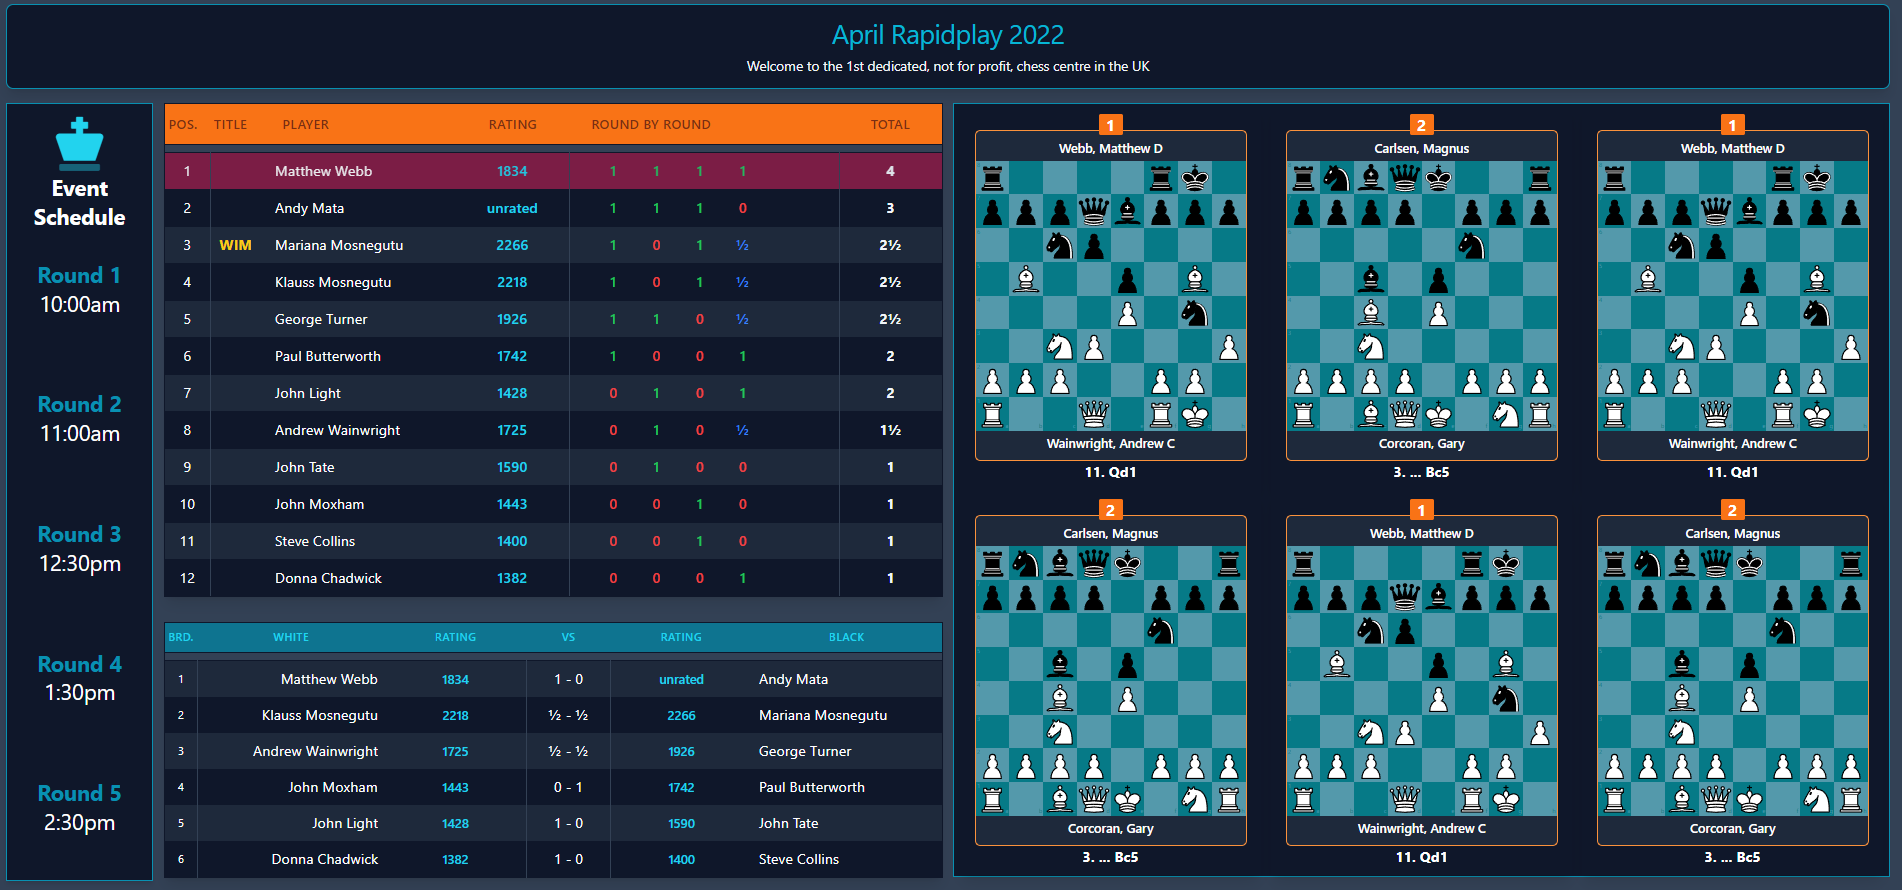
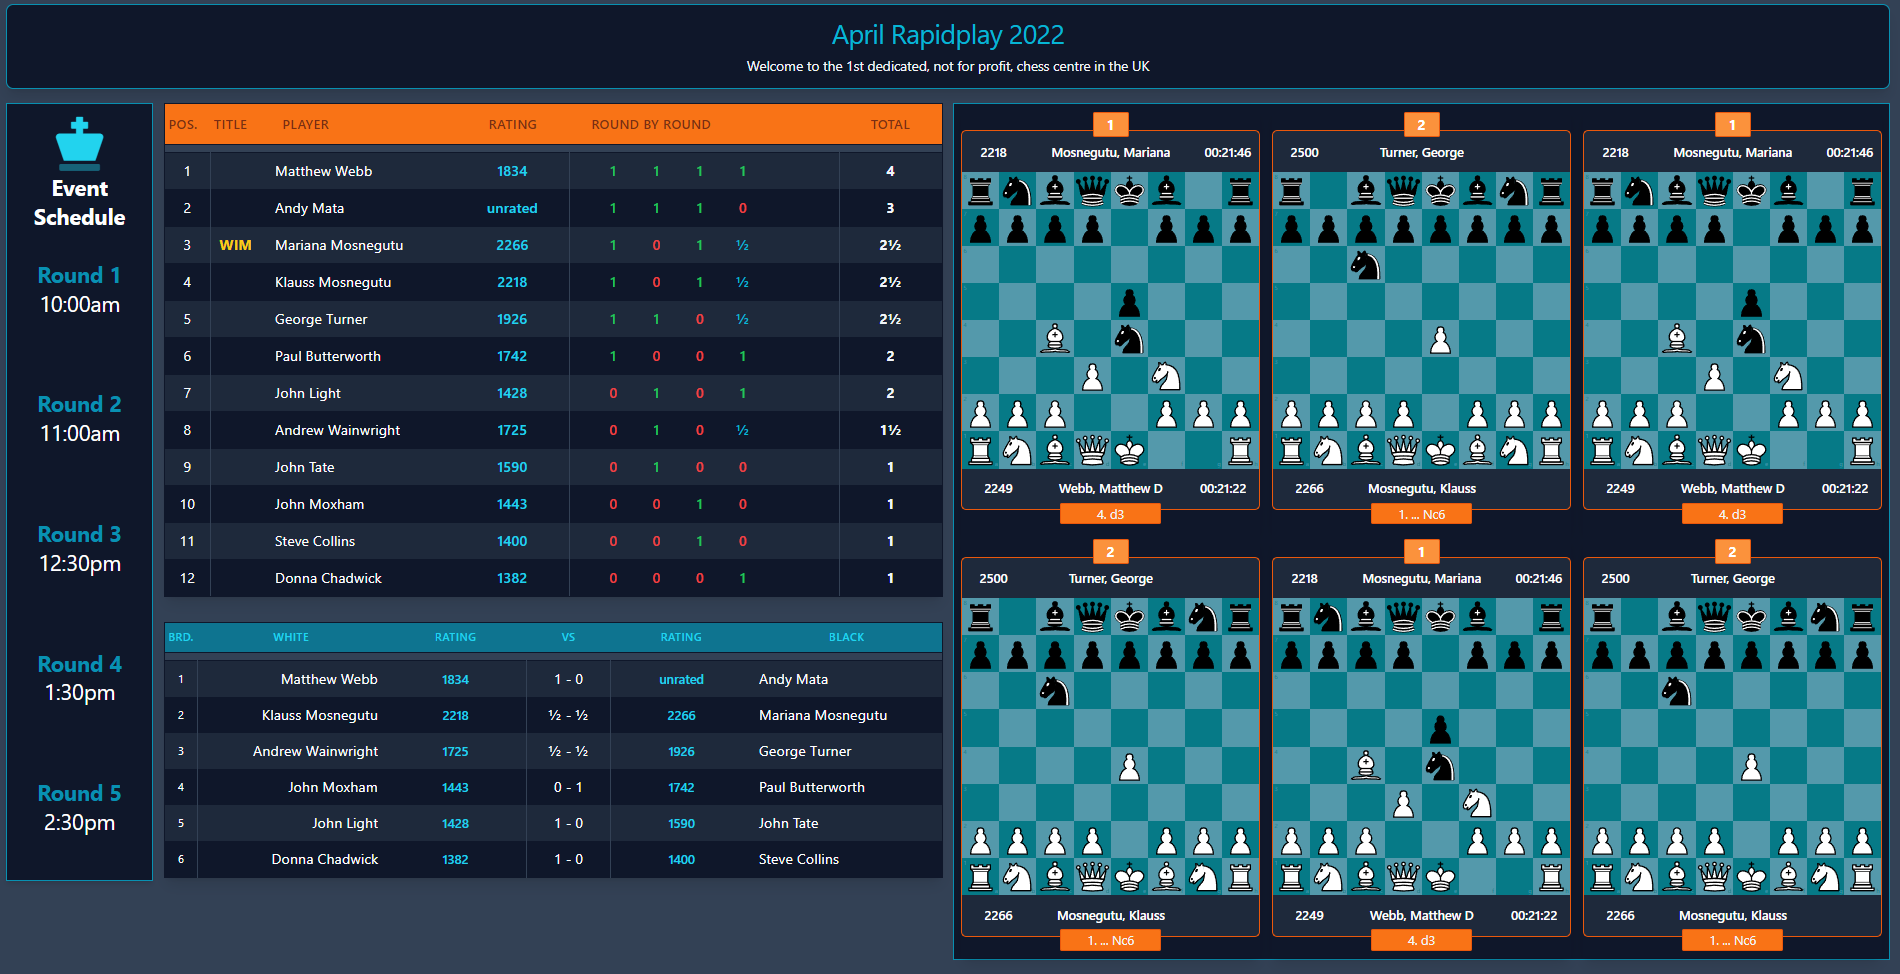
refactor: refinements

diff --git a/src/components/Board/Board.js b/src/components/Board/Board.js
@@ -4,12 +4,12 @@ export default function BoardWrapper(props) {
   const { name, fen, result, blackClock, whiteClock, lastMove, info } = props;
 
   return (
-    <div className="bg-slate-900 text-black m-auto px-4 py-2 shadow-lg">
+    <div className="bg-slate-900 text-black m-auto py-2 shadow-lg">
       <div className="grid grid-cols-1 relative">
         <div className="mx-auto w-full">
           {/* BOARD NUMBER */}
           <div className="relative">
-            <div className="mx-auto w-10 bg-orange-900 border-orange-600 border-2 text-lg rounded-sm font-bold text-white">
+            <div className="mx-auto w-10 bg-orange-400 border-orange-600 border-2 text-md rounded-sm font-bold text-white">
               {name}
             </div>
           </div>
@@ -30,19 +30,19 @@ export default function BoardWrapper(props) {
               customLightSquareStyle={{ backgroundColor: "#5499ab" }}
               id={1}
               position={fen}
-              boardWidth={310}
+              boardWidth={330}
             />
           </div>
           {/* WHITE INFO */}
-          <div className="grid grid-cols-6 px-2 text-sm bg-slate-800 py-3 rounded-b-md text-white font-medium border-b-2 border-l-2 border-r-2 border-orange-600">
+          <div className="grid grid-cols-5 px-2 text-sm bg-slate-800 py-3 rounded-b-md text-white font-medium border-b-2 border-l-2 border-r-2 border-orange-600">
             <div>{info?.whiteInfo?.rating}</div>
-            <div className="col-span-4"><span>{info?.whiteInfo?.name}</span></div>
+            <div className="col-span-3"><span>{info?.whiteInfo?.name}</span></div>
             <div>{whiteClock}</div>
           </div>
 
           {/* MOVE & RESULT DETAILS */}
           <div className="relative">
-            <div className="mx-auto text-slate-100 text-md font-bold w-28 bg-orange-900 border-2 border-orange-600 text-lg px-2 rounded-sm -mt-2">
+            <div className="mx-auto text-slate-100 text-sm w-28 bg-orange-500 border-2 border-orange-600 px-2 rounded-sm -mt-2">
               {lastMove}
             </div>
           </div>

diff --git a/src/components/Swiss/Swiss.js b/src/components/Swiss/Swiss.js
@@ -90,11 +90,11 @@ function GamesGrid() {
     <div className="bg-slate-900 border-2 border-cyan-600">
       <div className="grid grid-cols-3">
         <ChessGame round={round} board={1} />
-        {/* <ChessGame round={round} board={2} />
+        <ChessGame round={round} board={2} />
         <ChessGame round={round} board={1} />
         <ChessGame round={round} board={2} />
         <ChessGame round={round} board={1} />
-        <ChessGame round={round} board={2} /> */}
+        <ChessGame round={round} board={2} />
       </div>
     </div>
   );

diff --git a/src/components/Viewer/Game.js b/src/components/Viewer/Game.js
@@ -11,8 +11,8 @@ export default function ChessGame({ round, board, interval = 1000 }) {
   const [fen, setFen] = useState("start");
   const [result, setResult] = useState(null);
   const [lastMove, setLastMove] = useState("");
-  const [whiteClock, setWhiteClock] = useState("");
-  const [blackClock, setBlackClock] = useState("");
+  const [whiteClock, setWhiteClock] = useState("00:00:00");
+  const [blackClock, setBlackClock] = useState("00:00:00");
   const [info, setInfo] = useState({
     whiteInfo: null,
     blackInfo: null
